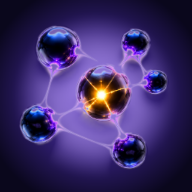
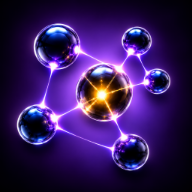
Pro-Symbol: neue dunkle Vorlage von Klaus (ChatGPT), Android-Vordergrund läuft an den Kanten weich aus
Claude-Session: https://claude.ai/code/session_01PwFFRzds7mox7VS8vwEYGv

diff --git a/tools/native/icon/make-pro-dark.py b/tools/native/icon/make-pro-dark.py
@@ -1,5 +1,7 @@
 #!/usr/bin/env python3
-"""Private Brain Pro – dunkles App-Symbol (Klaus 2026-11-26).
+"""Private Brain Pro – dunkles App-Symbol (Klaus 2026-11-26). ERSATZWEG: die gültige Vorlage
+artwork/private-brain-pro-dark.png hat Klaus mit ChatGPT neu erzeugen lassen; dieses Skript
+überschreibt sie. Nur benutzen, wenn kein neues Bild zur Hand ist.
 
 Regel für alle Pro-Apps: die Pro-Fassung (Android, Windows) trägt einen dunklen
 Grund mit Verlauf von der Mitte nach außen, die Basic-Fassung (Web-App) ist hell.
@@ -20,7 +22,7 @@ HIER = os.path.dirname(os.path.abspath(__file__))
 WURZEL = os.path.abspath(os.path.join(HIER, '..', '..', '..'))
 ap = argparse.ArgumentParser()
 ap.add_argument('--blau', action='store_true')
-ap.add_argument('--out', default=os.path.join(WURZEL, 'artwork', 'private-brain-pro-dark.png'))
+ap.add_argument('--out', default=os.path.join(WURZEL, 'artwork', 'private-brain-pro-dark-umgefaerbt.png'))
 A = ap.parse_args()
 
 # Mitte, Zwischenton, Rand; dazu die Farbe, in die der frühere weiße Schein übergeht.
